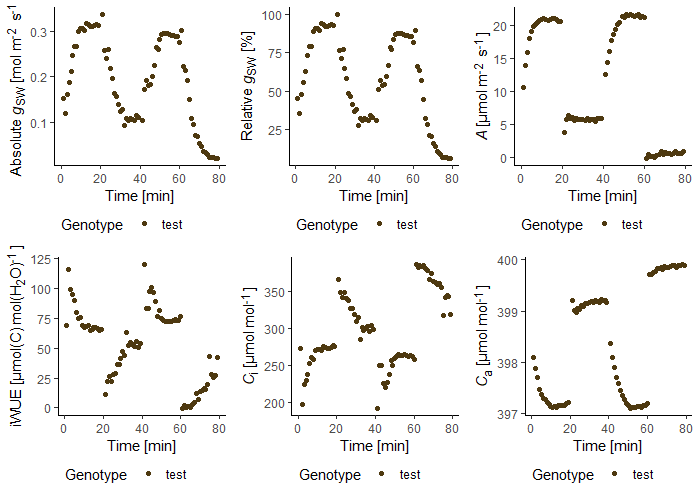
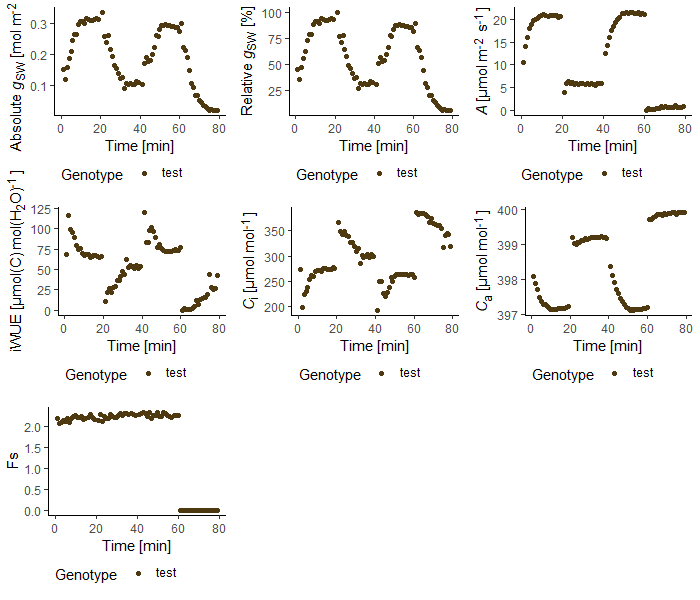
New plotting options. Y axis label customizable

diff --git a/README.md b/README.md
@@ -1,5 +1,5 @@
 ### How to download and install the package in R or R Studio
-You can install the most recent version (v2.0.0) of licornetics from github with the following code:
+You can install the most recent version (v2.0.1) of licornetics from github with the following code:
 ```yaml
 if (!require(devtools)) install.packages('devtools')
 devtools::install_github("lbmountain/licornetics")
@@ -19,21 +19,24 @@ library(licornetics)
 
 This function enables easy visualization of physiological parameters measured with a Li-COR portable photosystem.
 
-It can plot absolute or relative stomatal conductance (_g<sub>SW</sub>_), carbon assimilation (_A_), intrinsic water-use efficiency (iWUE), intercellular CO<sub>2</sub> (_C_<sub>i</sub>) and ambient CO<sub>2</sub> (_C_<sub>a</sub>). Data from single files can be plotted as well as averaged data across several input files (with standard error or deviation bars) and different genotypes, species or conditions can be shown in one plot.
+It can plot absolute or relative stomatal conductance (_g<sub>SW</sub>_), carbon assimilation (_A_), intrinsic water-use efficiency (iWUE), intercellular CO<sub>2</sub> (_C_<sub>i</sub>) and ambient CO<sub>2</sub> (_C_<sub>a</sub>). Also allows to plot other values from version 2.0.1 onward. Data from single files can be plotted as well as averaged data across several input files (with standard error or deviation bars) and different genotypes, species or conditions can be shown in one plot.
 
 Licorplots is optimized for the use of Excel sheet files (**.xlsx**) created by the Li-6800 system.
 
-As output, a plot is generated using the `ggplot2` package which can therefore be used downstream with ggplot-based packages such as `ggpubr`. Plot colours are added based on the "Isfahan1" palette from the `MetBrewer` package (https://github.com/BlakeRMills/MetBrewer) as a default but can also be customized with your own colour palette.
+As output, a customizable plot is generated using the `ggplot2` package which can therefore be used downstream with ggplot-based packages such as `ggpubr`. Plot colours are added based on the "Isfahan1" palette from the `MetBrewer` package (https://github.com/BlakeRMills/MetBrewer) as a default but can also be customized with your own colour palette.
 
 
 #### Updates included in version 2.0.0
 - additional plotting option for Intercellular CO<sub>2</sub> and Ambient CO<sub>2</sub>
 - **values can now be normalised by stomatal density with the `stomden` function**
-- colours are more customisable now
+- colours are more customizable now
 - x axis depicts actual time in minutes calculated from measured timepoint now rather than based on the _obs_ column
 - outlier removal is based on _A_ not iWUE now
-- customisable text labels now support markdown formatting (e.g. italics or bold)
+- customizable text labels now support markdown formatting (e.g. italics or bold)
 
+#### Updates included in version 2.0.1
+- The "type" argument now also allows other inputs. It is important that the input is a column of the Li-COR excel output data files (e.g. "Fs" or "Qamb_out").
+- y axis label text can be changed now with the "axis_label" argument
 
 
 
@@ -62,7 +65,7 @@ licorplots(identifier = "test")
 
 
 ##### **2. Different plot types**
-While the default setting of licorplots will yield a plot of data for absolute stomatal conductance, there are in total six plot types available which can be selected with the `type` argument:
+While the default setting of licorplots will yield a plot of data for absolute stomatal conductance, there are also other options available (including intrinsic water-use efficiency and relative stomatal conductance (not included in the Li-6800 output files)) which can be selected with the `type` argument:
 
 1. **Absolute stomatal conductance** (`"gsw"`, _gsw_ in the excel files)
 
@@ -75,6 +78,8 @@ While the default setting of licorplots will yield a plot of data for absolute s
 5. **Intercellular CO<sub>2</sub>** (`"Ci"`, _Ci_ in the excel files) 
 
 6. **Ambient Co<sub>2</sub>** (`"Ca"`, _Ca_ in the excel files)
+
+7. **Data column of your choice** (refer to a column name in the excel files)
 ```yaml
 licorplots(identifier = "test", type = "gsw")
 licorplots(identifier = "test", type = "relgsw")
@@ -82,6 +87,7 @@ licorplots(identifier = "test", type = "A")
 licorplots(identifier = "test", type = "WUE")
 licorplots(identifier = "test", type = "Ci")
 licorplots(identifier = "test", type = "Ca")
+licorplots(identifier = "test", type = "Fs")
 ```
 ![plot3_types](images/plot3_types.png)
 
@@ -162,8 +168,10 @@ licorplots(identifier = "plantline1", timestamps = c(20, 40, 60))
 `legend_title` allows to change the legend **title**. Default title is `"Genotype"`.
 
 The **labels** of the legend can be modified by using `legend_labels`. The order of labels should follow the order of data given in the `identifier` argument. If `legend_labels` is not changed, the names used in `identifier` are displayed. Both `legend_title` and `legend_labels` support markdown formatting so that you can for example format your text in _italics_ or **bold**.
+
+The **y axis label** can be customized by using the `axis_label` argument. This argument supports usage of markdown language formatting.
 ```yaml
-licorplots(identifier = c("plantline1", "plantline2"), legend_title = "**Species**"", legend_labels = c("*Plant x*", "Plant y"))
+licorplots(identifier = c("plantline1", "plantline2"), legend_title = "**Species**"", legend_labels = c("*Plant x*", "Plant y"), axis_label = "**g<sub>SW</sub>**")
 ```
 ![plot9_labels](images/plot9_labels.png)
 
